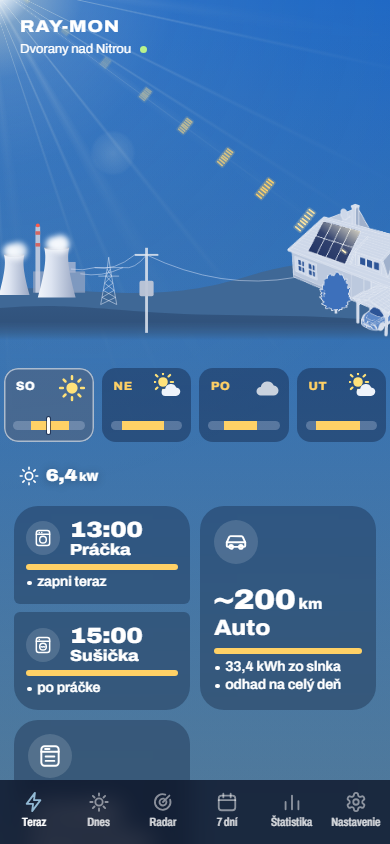
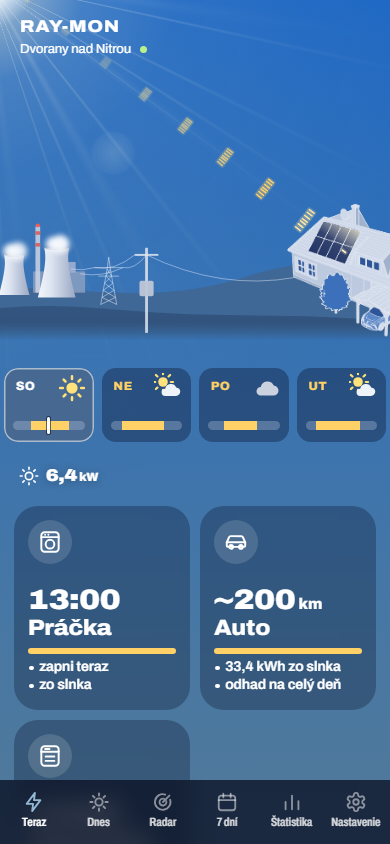
feat: karta Teraz – práčka a sušička znova ako celé dlaždice (#551)
Práčka a sušička už nie sú dvojica polovičných dlaždíc (variant B z
`docs/navrhy/teraz-dlazdice-stlpce.html`), ale celé dlaždice ako
ostatné.

- `shared/teraz-stlpce.js`: stĺpce bez blokov – vľavo všetko okrem
pravého stĺpca v poradí karty, vpravo bojler, auto, klíma.
- `TERAZ_STLPCE` má len `pravy`.
- Zmazané `polovicaDlazdice`, CSS `.dl-par` a `.dl-pol`.
- Snímka `docs/img/terazky.png` pregenerovaná.

Overené: `npm run check` zelené, e2e karty Teraz prešli (3 testy najprv
na časový limit pri 4 workeroch, po jednom prešli).

🤖 Generated with [Claude Code](https://claude.com/claude-code)

Changed region(s): [[0.0308, 0.6161, 0.4923, 0.8318]]

diff --git a/test/e2e/obloha.spec.js b/test/e2e/obloha.spec.js
@@ -32,7 +32,7 @@ import { denVysvetlenie, dnesFaza, dnesKarty } from '../../shared/dnes-faza.js';
 import { dnesNeboModel } from '../../shared/dnes-nebo.js';
 import { pocasieTeraz, terazModel } from '../../shared/teraz.js';
 import { oknaSvietia, scenaModel } from '../../shared/teraz-scena.js';
-import { polovicaDlazdice, stlpceDlazdic } from '../../shared/teraz-stlpce.js';
+import { stlpceDlazdic } from '../../shared/teraz-stlpce.js';
 import { sedemDayModel, sedemModel, sedemWeekModel } from '../../shared/sedem-dni.js';
 import { lookToStored, toUser, typicalSettings } from '../../shared/settings.js';
 import { skyNow } from '../../shared/sky.js';
@@ -1367,7 +1367,7 @@ const coVStranke = (page) =>
     });
 
 /**
- * Rozmery dlaždíc Čo zapnúť: rôzne výšky dlaždíc (dvojica práčka + sušička ako jedna) a koľko dlaždíc nemá číslo,
+ * Rozmery dlaždíc Čo zapnúť: rôzne výšky dlaždíc a koľko dlaždíc nemá číslo,
  * pásik a odrážky na rovnakej výške ako dlaždica vedľa nej (docs/navrhy/teraz-pasik-zdroje.html,
  * teraz-dlazdice-stlpce.html - všetky rovnako veľké, rady zarovnané).
  * @param {import('@playwright/test').Page} page
@@ -1433,15 +1433,14 @@ const riadokZModelu = (r) => ({
 });
 
 /**
- * Poradie v stránke: dva stĺpce (shared/teraz-stlpce.js) striedavo po blokoch, v dvojici polovičné dlaždice.
+ * Poradie v stránke: dva stĺpce (shared/teraz-stlpce.js) striedavo po dlaždiciach.
  * @param {DlazdicaModelu[]} veci
  */
 const vStlpcoch = (veci) => {
     const { lavy, pravy } = stlpceDlazdic(veci);
-    /** @param {DlazdicaModelu[] | undefined} b */
-    const blok = (b) => (!b ? [] : b.length === 1 ? b : b.map(polovicaDlazdice));
-    return Array.from({ length: Math.max(lavy.length, pravy.length) }, (_, i) => [...blok(lavy[i]), ...blok(pravy[i])])
+    return Array.from({ length: Math.max(lavy.length, pravy.length) }, (_, i) => [lavy[i], pravy[i]])
         .flat()
+        .filter((d) => d !== undefined)
         .map(dlazdicaVStranke);
 };
 
@@ -1605,9 +1604,8 @@ test.describe('karta Teraz', () => {
         await expect(dlazdica.locator('.dl-ico')).toHaveCSS('box-shadow', 'rgba(242, 245, 251, 0.65) 0px 0px 16px 0px');
         await expect(page.locator('#tz-co [data-vec="susicka"]')).not.toHaveAttribute('data-zapnuty');
         await expect(dlazdica.locator('.velky')).toHaveText(`${t?.pred} ${t?.velky}`);
-        // Práčka je polovica dvojice so sušičkou: jedna odrážka.
-        await expect(dlazdica).toContainClass('dl-pol');
-        await expect(dlazdica.locator('.odr > span:not(.sr)')).toHaveText(t ? polovicaDlazdice(t).odr : []);
+        // Práčka je celá dlaždica: všetky odrážky.
+        await expect(dlazdica.locator('.odr > span:not(.sr)')).toHaveText(t?.odr ?? []);
         expect(await rozmeryDlazdic(page)).toEqual({ vysky: 1, nezarovnane: 0 });
         // Zápis je v telefóne: po obnovení stránky práčka stále beží a detail ukáže jej zvyšok.
         await page.reload();
@@ -1667,7 +1665,7 @@ test.describe('karta Teraz', () => {
         expect(await page.evaluate(() => JSON.parse(localStorage.getItem('auto-den-v1') ?? 'null')?.vecer)).toBe(true);
         await expect.poll(() => coVStranke(page)).toEqual(coZModelu(m));
         // Čo sa dnes na slnko už nezmestí, má núdzový čas a povie, kedy pôjde celé zo slnka.
-        await expect(page.locator('#tz-dlazdice .dl:not(.dl-pol)[data-kind="nudza"] small').first()).toHaveText(/, celá zajtra$/);
+        await expect(page.locator('#tz-dlazdice .dl[data-kind="nudza"] small').first()).toHaveText(/, celá zajtra$/);
         // Zajtrajšok: ťuknutie na deň v hrebeni ukáže jeho plán s tokom dňa, dnešné dlaždice zmiznú.
         await page.locator('#tz-hreben-dni [data-den="1"]').click();
         const zajtra = terazModel(vstupTeraz(time), { den: 1 });
@@ -1707,7 +1705,7 @@ test.describe('karta Teraz', () => {
         await expect(dni.nth(1)).toHaveAccessibleName('Ne – Zajtra, slnko na veľké spotrebiče nestačí');
         await expect(page.locator('#tz-hreben-dni .wi')).toHaveCount(h.dni.filter((d) => d.pocasie).length);
         await expect(page.locator('#tz-hreben-dni .pd-okna i')).toHaveCount(h.dni.reduce((n, d) => n + d.okna.length, 0));
-        await expect(page.locator('#tz-dlazdice .dl:not(.dl-pol)[data-kind="nudza"] small').first()).toHaveText(/, celá v utorok$/);
+        await expect(page.locator('#tz-dlazdice .dl[data-kind="nudza"] small').first()).toHaveText(/, celá v utorok$/);
         expect(await vazneNalezy(page)).toEqual([]);
         expect(errors).toEqual([]);
     });

diff --git a/web/render/teraz.js b/web/render/teraz.js
@@ -15,7 +15,7 @@ import { bojlerDetail, bojlerDlazdica, bojlerDrahaDnes, bojlerRiadeny, TERAZ_BOJ
 import { klimaDetail, klimaDlazdica, TERAZ_KLIMA_TEXTS } from '../../shared/teraz-klima.js';
 import { localDateKey, localMinutes } from '../../shared/solar.js';
 import { oknaSvietia, scenaModel } from '../../shared/teraz-scena.js';
-import { polovicaDlazdice, stlpceDlazdic } from '../../shared/teraz-stlpce.js';
+import { stlpceDlazdic } from '../../shared/teraz-stlpce.js';
 import { hviezdySvg, mesiacSvg, pocasieHtml, pocasieStav } from '../pocasie.js';
 import { dashboard, shows } from '../state.js';
 import { tokIcon, vecIcon, weatherIcon } from './icons.js';
@@ -104,13 +104,12 @@ function renderHreben(h, dom) {
  * takže sú všetky dlaždice rovnako vysoké. Odrážky sú riadky `small`, pre čítačku oddelené čiarkou.
  * `kind` je druh veci, ktorá teraz nejde (lacné pásmo má modrý čas).
  * Zapnutý spotrebič (beží, bojler, ktorému zásuvka zapla relé, auto sa asi nabíja) má plný biely kruh ikony
- * (`data-zapnuty`, docs/navrhy/teraz-zapnuty-farba.html, F1). `stlpec` (l, p) je stĺpec samostatnej dlaždice; `pol` je polovica dvojice
- * (docs/navrhy/teraz-dlazdice-stlpce.html, B): ikona vedľa čísla a jedna odrážka, mriežku riadkov nezdieľa.
+ * (`data-zapnuty`, docs/navrhy/teraz-zapnuty-farba.html, F1). `stlpec` (l, p) je stĺpec dlaždice.
  * `oziv` je dlaždica, ktorej ikona po ťuknutí na oznámenie ožije, a ako (`data-oziv`, pohyb robí CSS).
- * @param {Dlazdica} d @param {string} [stlpec] @param {boolean} [pol] @param {Ozivenie | null} [oziv]
+ * @param {Dlazdica} d @param {string} stlpec @param {Ozivenie | null} oziv
  */
-const dlazdicaHtml = (d, stlpec = '', pol = false, oziv = null) =>
-    `<${znacka(d)} class="dl${pol ? ' dl-pol' : ''}"${stlpec ? ` data-stlpec="${stlpec}"` : ''}${stavDlazdice(d, oziv)}>` +
+const dlazdicaHtml = (d, stlpec, oziv) =>
+    `<${znacka(d)} class="dl" data-stlpec="${stlpec}"${stavDlazdice(d, oziv)}>` +
     `<span class="dl-ico" aria-hidden="true">${vecIcon(d.id)}</span>` +
     `<span><span class="velky">${predHtml(d.pred)}${escapeHtml(d.velky)}${zaHtml(d.za)}</span><b>${escapeHtml(d.meno)}</b>` +
     `<i class="podiel"${d.podiel === null ? ' data-prazdny' : ` style="--s:${d.podiel}%;--n:${100 - (d.draha ?? 0)}%"`}></i>` +
@@ -174,7 +173,7 @@ function prvyVPlane(co) {
 
 /**
  * Čo zapnúť (docs/navrhy/teraz-dlazdice.html): pod poľom toku (renderTokPole) dlaždice v dvoch stĺpcoch (docs/navrhy/teraz-dlazdice-stlpce.html):
- * vľavo práčka so sušičkou ako dvojica polovičných dlaždíc a umývačka podľa času, vpravo bojler a pod ním auto.
+ * vľavo práčka, sušička a umývačka podľa času, vpravo bojler, pod ním auto a klimatizácia.
  * Poradie, z ktorého ľavý stĺpec vychádza: čo beží, čo ide teraz (alebo najbližšia vec), ďalšie spotrebiče
  * zvoleného dňa, čo dobehlo. Každá dlaždica nesie `data-vec`, ťuknutie otvorí detail spotrebiča. Bez Plánu dňa
  * (bez predpovede, nič doma) nie je. `bojler` je dlaždica bojlera, ktorý riadi zásuvka (pri dnešku, inak null).
@@ -233,21 +232,15 @@ function autoCo(co) {
 }
 
 /**
- * Dva stĺpce dlaždíc (shared/teraz-stlpce.js) v jednej mriežke: bloky idú striedavo ľavý a pravý, každý má svoj
- * stĺpec (`data-stlpec`), takže sa rad zarovná, aj keď jednému stĺpcu blok chýba. Dvojica je jeden blok s dvoma
- * polovičnými dlaždicami pod sebou.
+ * Dva stĺpce dlaždíc (shared/teraz-stlpce.js) v jednej mriežke: dlaždice idú striedavo ľavý a pravý, každá má svoj
+ * stĺpec (`data-stlpec`), takže sa rad zarovná, aj keď jednému stĺpcu dlaždica chýba.
  * @param {Dlazdica[]} veci @param {Ozivenie | null} oziv
  */
 function dlazdiceHtml(veci, oziv) {
     const { lavy, pravy } = stlpceDlazdic(veci);
-    /** @param {Dlazdica[]} b @param {string} s */
-    const blok = (b, s) =>
-        b.length === 1
-            ? dlazdicaHtml(b[0], s, false, oziv)
-            : `<div class="dl-par" data-stlpec="${s}">${b.map((d) => dlazdicaHtml(polovicaDlazdice(d), '', true, oziv)).join('')}</div>`;
     let html = '';
     for (let i = 0; i < Math.max(lavy.length, pravy.length); i++)
-        html += (lavy[i] ? blok(lavy[i], 'l') : '') + (pravy[i] ? blok(pravy[i], 'p') : '');
+        html += (lavy[i] ? dlazdicaHtml(lavy[i], 'l', oziv) : '') + (pravy[i] ? dlazdicaHtml(pravy[i], 'p', oziv) : '');
     return html;
 }
 

diff --git a/test/teraz-stlpce.test.js b/test/teraz-stlpce.test.js
@@ -1,38 +1,21 @@
 import { test } from 'node:test';
 import assert from 'node:assert/strict';
-import { polovicaDlazdice, stlpceDlazdic } from '../shared/teraz-stlpce.js';
+import { stlpceDlazdic } from '../shared/teraz-stlpce.js';
 
 /** @param {...string} ids */
 const veci = (...ids) => ids.map((id) => ({ id }));
-/** @param {{ lavy: Array<Array<{ id: string }>>, pravy: Array<Array<{ id: string }>> }} s */
-const ids = (s) => ({ lavy: s.lavy.map((b) => b.map((v) => v.id)), pravy: s.pravy.map((b) => b.map((v) => v.id)) });
+/** @param {{ lavy: Array<{ id: string }>, pravy: Array<{ id: string }> }} s */
+const ids = (s) => ({ lavy: s.lavy.map((v) => v.id), pravy: s.pravy.map((v) => v.id) });
 
-test('stlpceDlazdic: vľavo dvojica a umývačka podľa poradia, vpravo bojler nad autom', () => {
-    assert.deepEqual(ids(stlpceDlazdic(veci('auto', 'umyvacka', 'pracka', 'bojler', 'susicka'))), {
-        lavy: [['umyvacka'], ['pracka', 'susicka']],
-        pravy: [['bojler'], ['auto']],
+test('stlpceDlazdic: vľavo práčka, sušička a umývačka v poradí karty, vpravo bojler, auto a klíma', () => {
+    assert.deepEqual(ids(stlpceDlazdic(veci('klima', 'auto', 'umyvacka', 'pracka', 'bojler', 'susicka'))), {
+        lavy: ['umyvacka', 'pracka', 'susicka'],
+        pravy: ['bojler', 'auto', 'klima'],
     });
-    assert.deepEqual(ids(stlpceDlazdic(veci('pracka', 'auto', 'umyvacka', 'susicka'))), {
-        lavy: [['pracka', 'susicka'], ['umyvacka']],
-        pravy: [['auto']],
-    });
+    assert.deepEqual(ids(stlpceDlazdic(veci('susicka', 'auto', 'pracka'))), { lavy: ['susicka', 'pracka'], pravy: ['auto'] });
 });
 
-test('stlpceDlazdic: v dvojici hore to, čo je v poradí skôr (sušička beží, práčka dobehla)', () => {
-    assert.deepEqual(ids(stlpceDlazdic(veci('susicka', 'umyvacka', 'pracka'))).lavy, [['susicka', 'pracka'], ['umyvacka']]);
-});
-
-test('stlpceDlazdic: z dvojice bez druhej veci je celá dlaždica, neznáma vec ide do ľavého stĺpca', () => {
-    assert.deepEqual(ids(stlpceDlazdic(veci('rura', 'susicka', 'bojler'))), {
-        lavy: [['rura'], ['susicka']],
-        pravy: [['bojler']],
-    });
+test('stlpceDlazdic: neznáma vec ide do ľavého stĺpca, bez vecí nič', () => {
+    assert.deepEqual(ids(stlpceDlazdic(veci('rura', 'susicka', 'bojler'))), { lavy: ['rura', 'susicka'], pravy: ['bojler'] });
     assert.deepEqual(stlpceDlazdic([]), { lavy: [], pravy: [] });
-});
-
-test('polovicaDlazdice: jedna odrážka, odznak ju nahradí', () => {
-    assert.deepEqual(polovicaDlazdice({ odr: ['a', 'b'] }), { odr: ['a'] });
-    const potom = { text: 'potom v pondelok', dlho: false };
-    assert.deepEqual(polovicaDlazdice({ odr: ['a'], potom }), { odr: [], potom });
-    assert.deepEqual(polovicaDlazdice({ odr: ['a'], potom: null }), { odr: ['a'], potom: null });
 });

diff --git a/shared/teraz-stlpce.js b/shared/teraz-stlpce.js
@@ -1,32 +1,21 @@
-// Dlaždice spotrebičov na karte Teraz v dvoch stĺpcoch (docs/navrhy/teraz-dlazdice-stlpce.html, B): vľavo
-// práčka so sušičkou ako dvojica polovičných dlaždíc a umývačka, vpravo bojler a pod ním auto.
+// Dlaždice spotrebičov na karte Teraz v dvoch stĺpcoch (docs/navrhy/teraz-dlazdice-stlpce.html): vľavo práčka, sušička
+// a umývačka, vpravo bojler, pod ním auto a klimatizácia. Všetky dlaždice sú celé - dvojicu práčky so sušičkou
+// z polovičných dlaždíc (variant B) appka od 26. 11. 2026 nemá.
 
 import { TERAZ_STLPCE } from './config.js';
 
 /**
  * Rozdelí dlaždice do stĺpcov. `veci` prichádzajú v poradí karty (čo beží podľa štartu, čo ide teraz, potom
- * podľa času, čo dobehlo na koniec) - ľavý stĺpec to poradie drží: blok sa radí podľa svojej prvej veci
- * a v dvojici ide hore tá, ktorá je v poradí skôr (čo beží, nad tým, čo len príde). Pravý stĺpec má pevné
- * poradie. Blok bez vecí nie je; z dvojice, ktorej druhá vec chýba, ostane jedna celá dlaždica.
+ * podľa času, čo dobehlo na koniec) - ľavý stĺpec to poradie drží, pravý má pevné poradie. Spotrebič, ktorý nie
+ * je v žiadnom stĺpci, ide do ľavého.
  * @template {{ id: string }} T
  * @param {T[]} veci
- * @returns {{ lavy: T[][], pravy: T[][] }}
+ * @returns {{ lavy: T[], pravy: T[] }}
  */
 export function stlpceDlazdic(veci) {
-    /** @param {readonly string[]} ids */
-    const blok = (ids) => veci.filter((v) => ids.includes(v.id));
-    const znamy = [...TERAZ_STLPCE.lavy, ...TERAZ_STLPCE.pravy].flat();
-    const lavy = [...TERAZ_STLPCE.lavy.map(blok), ...veci.filter((v) => !znamy.includes(v.id)).map((v) => [v])]
-        .filter((b) => b.length)
-        .sort((a, b) => veci.indexOf(a[0]) - veci.indexOf(b[0]));
-    const pravy = TERAZ_STLPCE.pravy.map(blok).filter((b) => b.length);
+    /** @type {readonly string[]} */
+    const pravyIds = TERAZ_STLPCE.pravy;
+    const lavy = veci.filter((v) => !pravyIds.includes(v.id));
+    const pravy = pravyIds.flatMap((id) => veci.filter((v) => v.id === id));
     return { lavy, pravy };
 }
-
-/**
- * Polovičná dlaždica dvojice má miesto len na jednu odrážku: prvú, alebo odznak, kedy bude slnko, ktorý ju nahradí.
- * @template {{ odr: string[], potom?: unknown }} T
- * @param {T} d
- * @returns {T}
- */
-export const polovicaDlazdice = (d) => ({ ...d, odr: d.potom ? [] : d.odr.slice(0, 1) });

diff --git a/css/teraz.css b/css/teraz.css
@@ -201,7 +201,7 @@
         display: block;
     }
 }
-/* Čo zapnúť (docs/navrhy/teraz-dlazdice-stlpce.html): dva stĺpce, aj v širokom rozložení. Každá dlaždica či dvojica
+/* Čo zapnúť (docs/navrhy/teraz-dlazdice-stlpce.html): dva stĺpce, aj v širokom rozložení. Každá dlaždica
    má svoj stĺpec (`data-stlpec`) a rad, ktorému jeden stĺpec chýba, ostane v druhom prázdny. */
 .mriezka {
     display: grid;
@@ -213,62 +213,6 @@
 }
 [data-stlpec='p'] {
     grid-column: 2;
-}
-/* Dvojica práčka + sušička (B): jedna dlaždica rozdelená škárou na dve polovice, spolu presne taká vysoká ako
-   dlaždica vedľa nej (zaberie tých istých päť riadkov mriežky). Vonkajšie rohy oblé, vnútorné rovné. Škára má
-   8 px - menej dotykové plochy nedovolia (od suseda aspoň 8 px). */
-.dl-par {
-    grid-row: span 5;
-    display: grid;
-    grid-template-rows: repeat(2, minmax(0, 1fr));
-    gap: 8px;
-    min-width: 0;
-}
-.dl.dl-pol {
-    grid-row: auto;
-    grid-template-rows: none;
-    grid-template-columns: auto minmax(0, 1fr);
-    column-gap: 10px;
-    align-content: center;
-    /* Dvojica bez suseda v rade (napr. bez bojlera) je pri bežnom písme rovnako vysoká ako veľká dlaždica. */
-    padding: 12.75px 12px;
-    border-radius: 24px 24px 6px 6px;
-}
-.dl.dl-pol + .dl-pol {
-    border-radius: 6px 6px 24px 24px;
-}
-.dl-pol .dl-ico {
-    grid-row: span 2;
-    align-self: center;
-    width: 34px;
-    height: 34px;
-    margin: 0;
-}
-.dl-pol .dl-ico .vi {
-    width: 20px;
-    height: 20px;
-}
-.dl-pol .velky,
-.dl-pol b {
-    grid-column: 2;
-}
-.dl.dl-pol b {
-    margin-top: 0;
-    font-size: min(1rem, 4.6cqi);
-}
-.dl.dl-pol .velky {
-    font-size: min(1.375rem, 7cqi);
-}
-.dl-pol .podiel,
-.dl-pol .odr {
-    grid-column: 1 / -1;
-}
-.dl-pol .podiel {
-    margin: 6px 0 3px;
-}
-/* Jedna odrážka (alebo odznak); pri väčšom písme v systéme sa zalomí, neskráti. */
-.dl.dl-pol .odr {
-    min-height: calc(0.875rem * 1.3);
 }
 /* Dlaždica: všetky na skle s bielym textom - farba nehovorí, či slnko stačí, ani že spotrebič beží; to povedia
    čas a odrážky (rozhodnuté 21. 11. 2026). Ploché, bez lemu.

diff --git a/shared/config.js b/shared/config.js
@@ -1138,13 +1138,11 @@ export const BOJLER_ULOZENE_MS = 2500;
 export const TERAZ_OKNA_SPANOK = { od: 0, do: 5 * 60 };
 
 /**
- * Dlaždice spotrebičov na karte Teraz v dvoch stĺpcoch (docs/navrhy/teraz-dlazdice-stlpce.html, B): každý blok
- * je jedna dlaždica, blok s dvoma vecami je dvojica polovičných pod sebou. Ľavý stĺpec ide podľa času spustenia,
- * pravý v tomto pevnom poradí. Spotrebič, ktorý tu nie je, ide na koniec ľavého stĺpca.
+ * Dlaždice spotrebičov na karte Teraz v dvoch stĺpcoch (docs/navrhy/teraz-dlazdice-stlpce.html): pravý stĺpec v tomto
+ * pevnom poradí, všetko ostatné (práčka, sušička, umývačka) v ľavom podľa času spustenia. Všetky dlaždice sú celé.
  */
 export const TERAZ_STLPCE = {
-    lavy: [['pracka', 'susicka'], ['umyvacka']],
-    pravy: [['bojler'], ['auto'], ['klima']],
+    pravy: ['bojler', 'auto', 'klima'],
 };
 
 // Nad touto výškou slnka (stupne) menič vyrába, takže mlčiaca krivka znamená výpadok.
